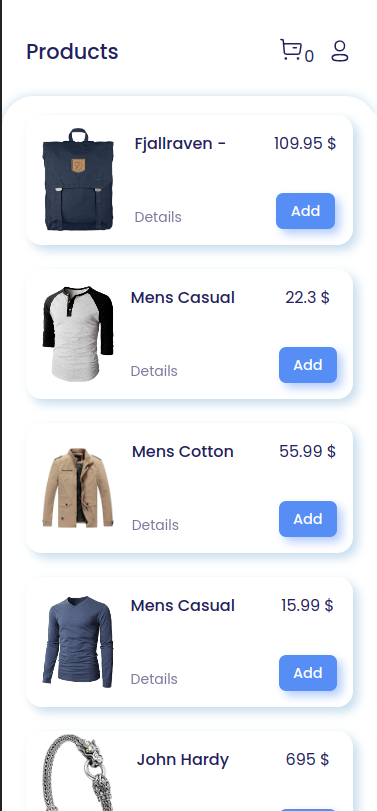
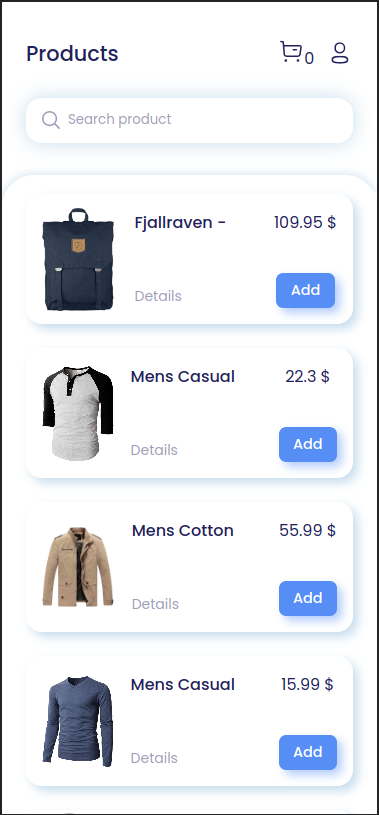
search products added

diff --git a/src/components/Store.js b/src/components/Store.js
@@ -1,4 +1,4 @@
-import React, { useContext, useEffect } from "react";
+import React, { useContext, useEffect, useState } from "react";
 
 // Components
 import Product from "./shared/Product";
@@ -10,19 +10,40 @@ import { ProductsContext } from "../context/ProductContextProvider";
 // Style
 import styles from "./styles/Store.module.css"
 
+// Icons
+const searchIcon = <svg xmlns="http://www.w3.org/2000/svg" width="18" height="18" fill="none"><path fill="#22215B70" d="m17.781 16.72-4.33-4.33A7.585 7.585 0 0 0 2.221 2.221 7.585 7.585 0 0 0 12.39 13.453l4.33 4.326a.749.749 0 0 0 1.224-.815.75.75 0 0 0-.162-.243Zm-10.2-3.062a6.081 6.081 0 1 1 6.084-6.08 6.088 6.088 0 0 1-6.083 6.08Z"/></svg>
+
 const Store = () => {
+  const [search, setSearch] = useState("");
+
   const products = useContext(ProductsContext);
   useEffect(() => {
     document.title = "Products"
   }, [])
 
+  const searchHandler = (event) => {
+    setSearch(event.target.value);
+  };
+  const searchedProducts = products.filter((product) =>
+    product.title.toLowerCase().includes(search.toLowerCase())
+  );
+
   return (
    <div className={styles.container}>
      <Navbar />
-     <div className={styles.productsContainer}>
+      <div className={styles.searchBox}>
+        <span>{searchIcon}</span>
+        <input
+          type="text"
+          placeholder="Search product"
+          value={search}
+          onChange={searchHandler}
+        />
+        </div>
+      <div className={styles.productsContainer}>
       {
         products.length ?
-        products.map((product) => (<Product key={product.id} productData={product} />)) :
+        searchedProducts.map((product) => (<Product key={product.id} productData={product} />)) :
         <div className={styles.loading}>
           <svg viewBox="25 25 50 50">
             <circle r="20" cy="50" cx="50"></circle>

diff --git a/src/components/styles/Store.module.css b/src/components/styles/Store.module.css
@@ -8,10 +8,29 @@
   display: flex;
   flex-direction: column;
   gap: 1.5em 5em;
-  text-align: left;
   border-radius: 2em 2em 0 0;
   padding: 1.2em 1.5em;
   box-shadow: 10px 10px 0px #FFFFFF, 0px 0px 10px #C7DDED;
+}
+.searchBox{
+  display: flex;
+  align-items: center;
+  gap: 0 .5em;
+  border-radius: 1em;
+  text-align: left;
+  margin: 0 1.5em 2em;
+  padding: .8em 1em;
+  box-shadow: 0px 0px 20px #C7DDED;
+}
+.searchBox span{
+  display: flex;
+}
+.searchBox input{
+  color: #22215b;
+}
+
+.searchBox input::placeholder{
+  color: #22215b70;
 }
 
 @media only screen and (min-width: 768px) {
@@ -21,9 +40,10 @@
     padding: 2em 1.5em;
     gap: 3em 5em;
   }
-  .welcome {
+  .searchBox {
     grid-column: 1/3;
-    font-size: 1.5rem;
+    box-shadow: none;
+    border: 1px solid #C7DDED;
   }
 }
 @media only screen and (min-width: 1000px) {
@@ -36,12 +56,18 @@
     border-top: 1px solid #C7DDED;
     border-radius: 0;
   }
+  .searchBox {
+    grid-column: 1/4;
+  }
 }
 @media only screen and (min-width: 1300px) {
   .productsContainer {
     grid-template-columns: repeat(4, 1fr);
     padding: 2em 1.5em;
     gap: 4em 3em;
+  }
+  .searchBox {
+    grid-column: 1/5;
   }
 }
 

diff --git a/src/components/styles/Product.module.css b/src/components/styles/Product.module.css
@@ -38,8 +38,7 @@
 }
 
 .productTitle a {
-  color: #22215B;
-  opacity: .6;
+  color: #22215B70;
   font-size: 14px;
 }
 

diff --git a/README.md b/README.md
@@ -23,6 +23,7 @@
 - Validation form
 - Product details page
 - Get data in <a target="_blank" href="https://fakestoreapi.com/">API</a> 
+- Search products
 - Add and remove item from cart
 - Minus and plus quantity cart items
 - Reset cart items
